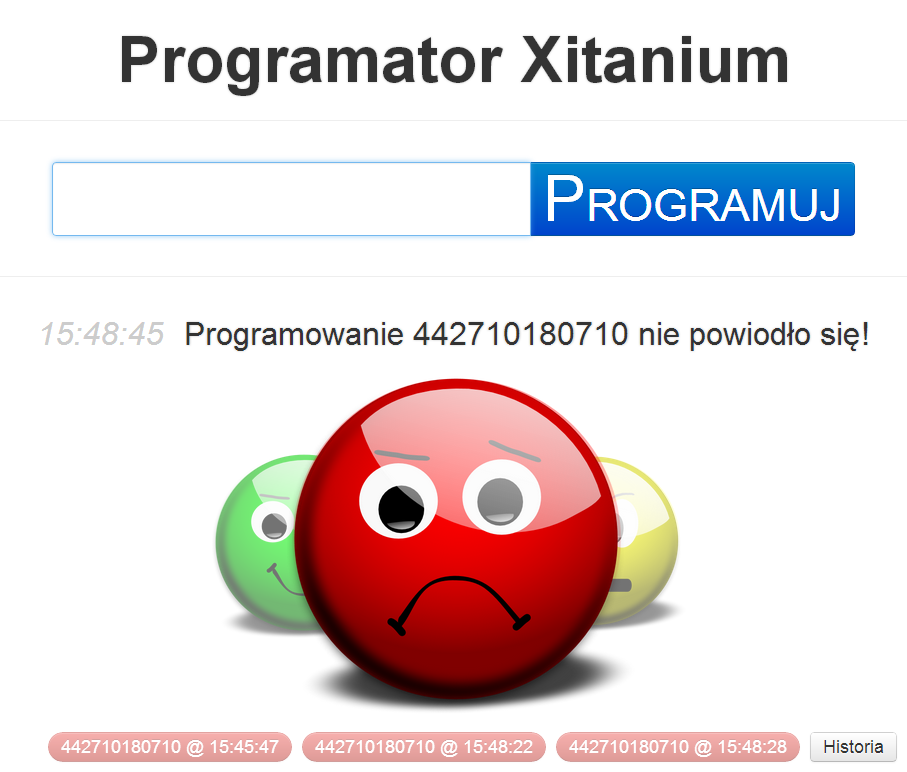
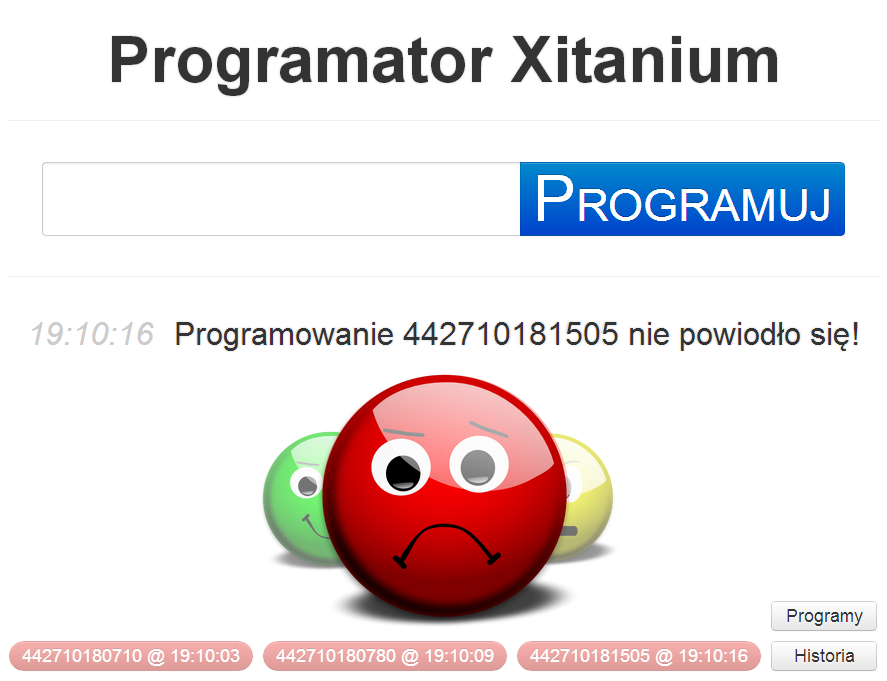
Updated the help to reflect the recent changes.

Changed region(s): [[0.0, 0.4009, 0.9741, 0.9868], [0.0304, 0.185, 0.9741, 0.37], [0.1218, 0.0308, 0.8828, 0.1542]]

diff --git a/frontend/help/index.html b/frontend/help/index.html
@@ -66,7 +66,9 @@
           <li>
             informacja o aktualnym stanie programatora w postaci krótkiej wiadomości
             oraz obrazów &quot;buziek&quot;,
-          <li>pasek ostatnio wykonanych programowań oraz przycisk do historii.
+          <li>pasek ostatnio wykonanych programowań,
+          <li>przycisk przekierowujący do historii,
+          <li>przycisk przekierowujący do listy aktualnie załadowanych programów.</li>
         </ul>
         <p>
           Programator może w danej chwili znajdować się w jednym z czterech stanów:
@@ -132,7 +134,29 @@
           Ekran nieudanego programowania
         </p>
       </section>
-      <section id="help-history" class="pbb" data-page="5">
+      <section id="help-programs" class="pbb" data-page="5">
+        <h1>Programy</h1>
+        <p class="image">
+          <img class="screen" src="screens/programs.png" alt="Załadowane programy"><br>
+          Ekran załadowanych programów
+        </p>
+        <p>
+          Do ekranu programów  możemy przejść klikając na przycisk
+          <input type="button" class="btn" value="Programy"> znajdujący się
+          w prawym dolnym rogu głównego ekranu aplikacji - ekranu programowania.
+        </p>
+        <p>
+          Na tym ekranie mamy możliwość wglądu w to jakie programy są w danym momencie
+          załadowane i z jakiego pochodzą źródła (plik CSV lub XLSX). Możemy
+          także wymusić przeładowanie danych poprzez wpisanie hasła przeładowania
+          i wciśnięcie przycisku
+          <input type="button" class="btn btn-primary" value="Przeładuj programy">.
+        </p>
+        <p>
+          Aby wrócić do ekranu programatora, klikamy na nagłówek <a>Programator Xitanium</a>.
+        </p>
+      </section>
+      <section id="help-history" class="pbb">
         <h1>Historia</h1>
         <section id="help-history-picker">
           <h1>Wybór wpisów</h1>
